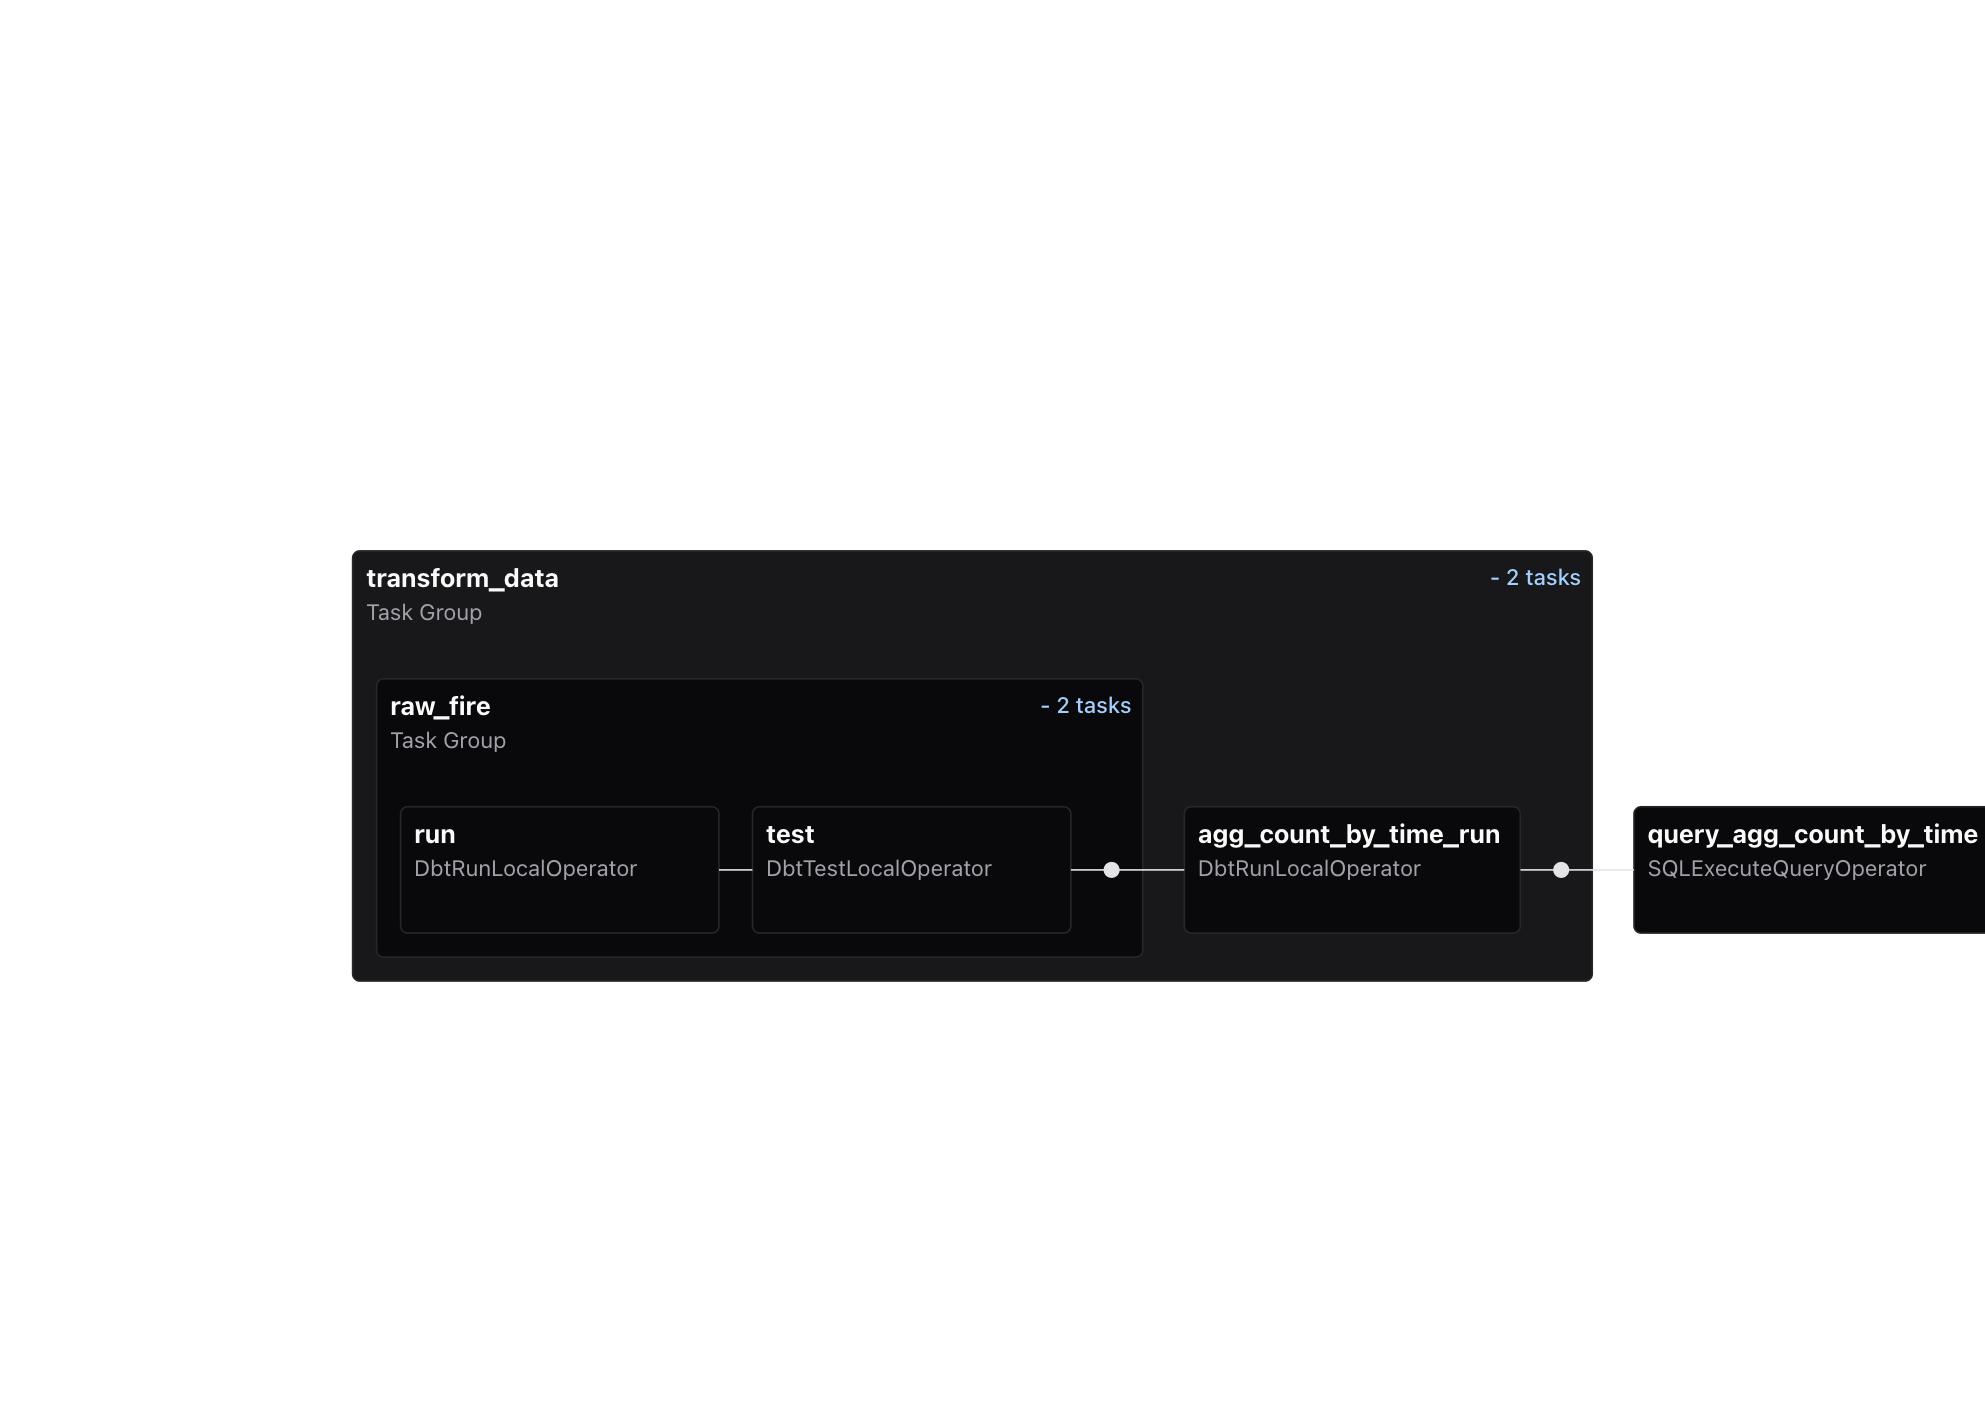
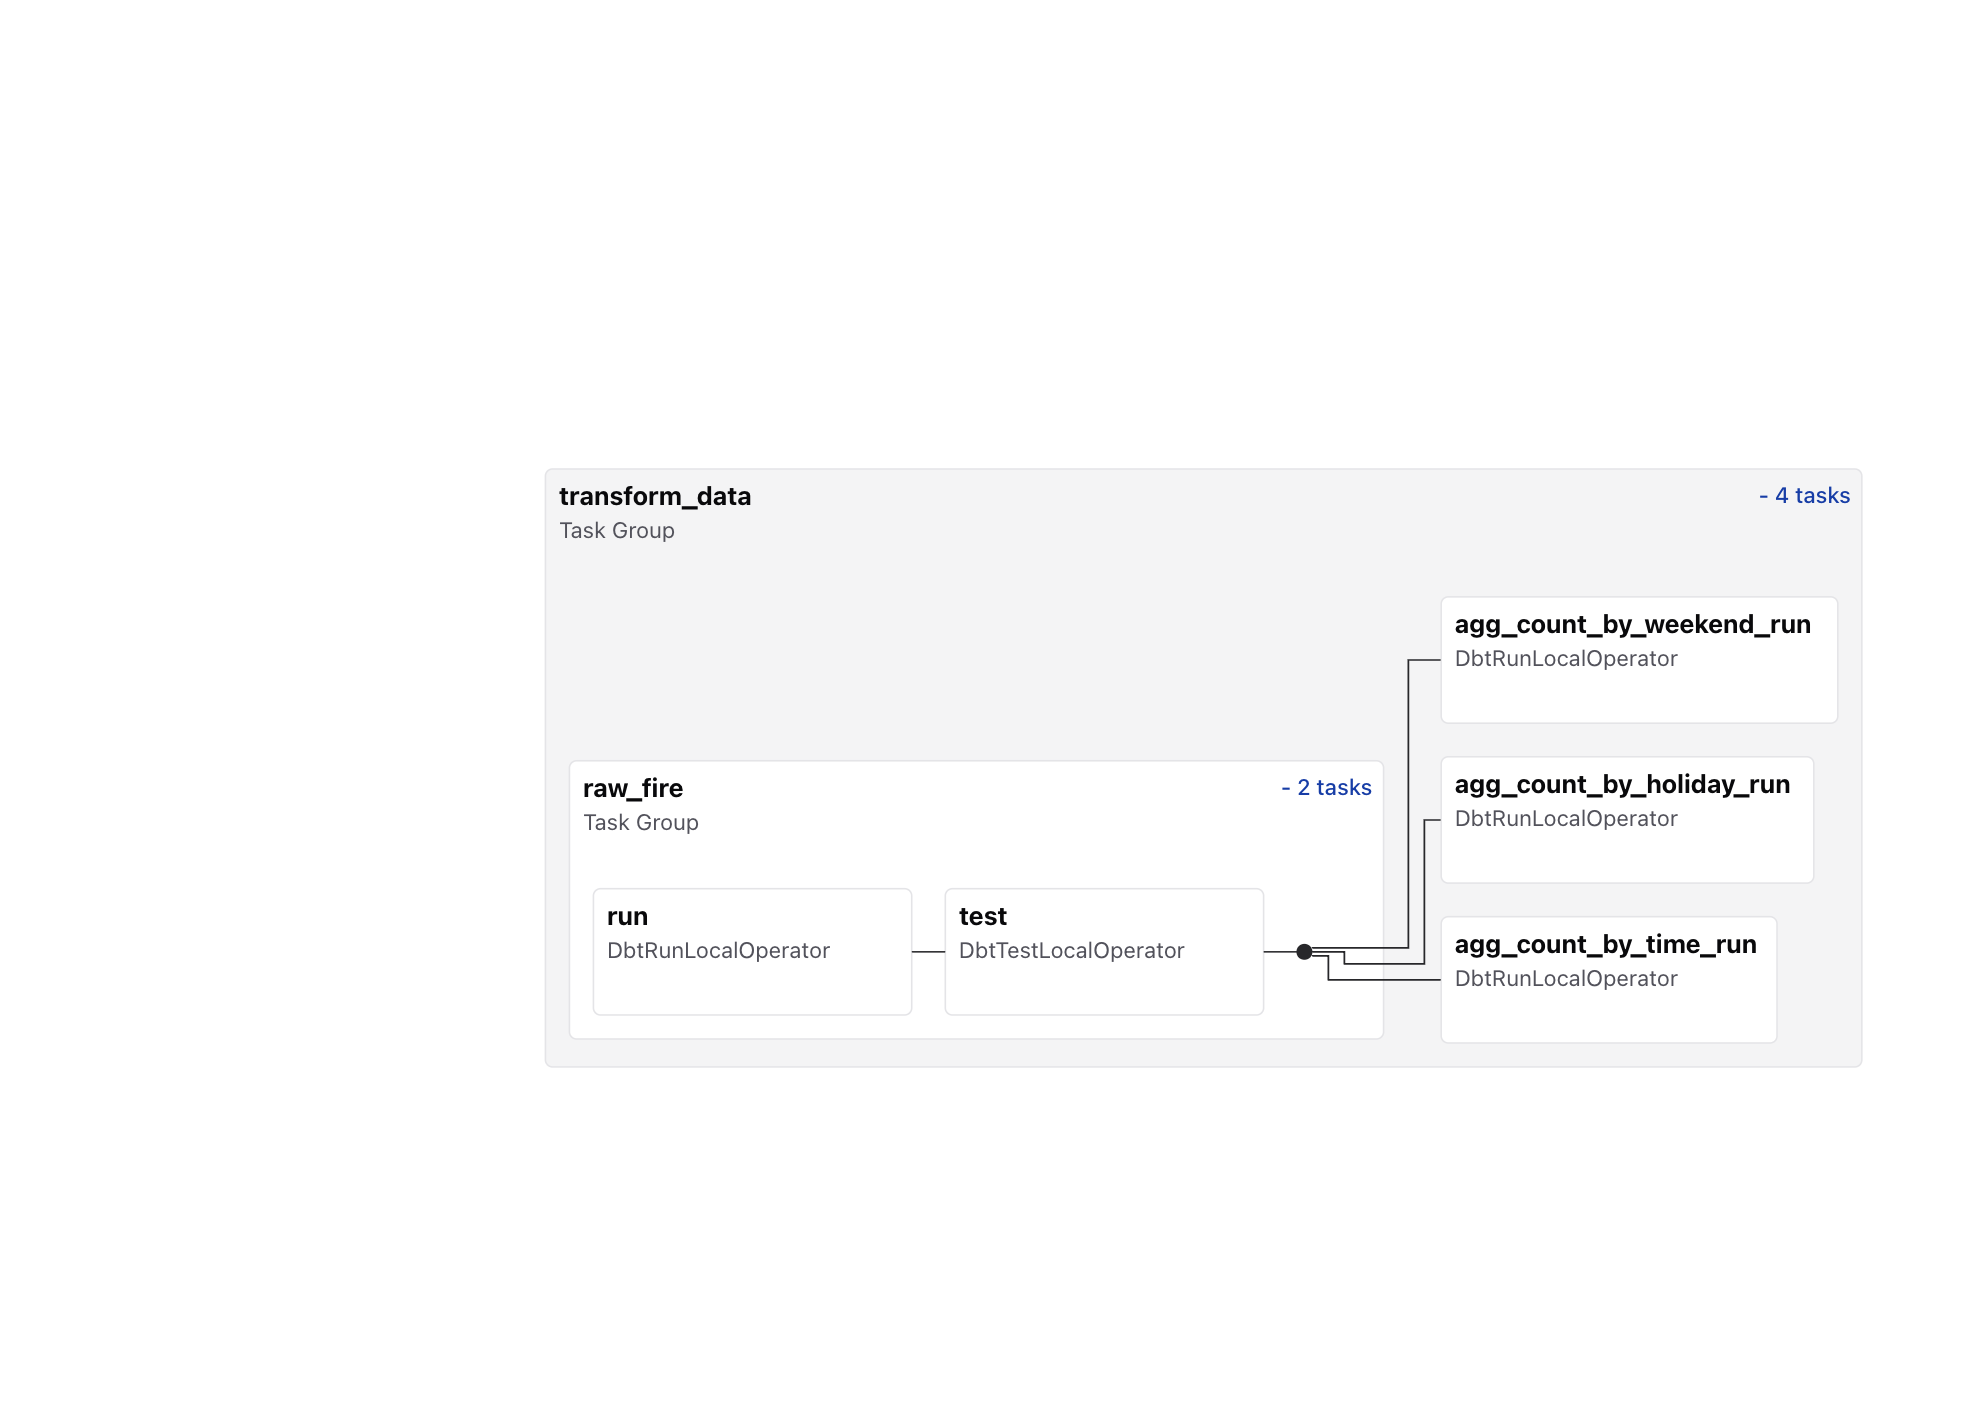
add calendar table and new dbt agg tables

Changed region(s): [[0.1562, 0.3428, 1.0, 0.7167], [0.9058, 0.3428, 0.937, 0.3739]]

diff --git a/dags/public/calendar_table.py b/dags/public/calendar_table.py
@@ -1,0 +1,90 @@
+import pandas as pd
+import holidays
+import logging
+from datetime import datetime
+from airflow.decorators import dag, task
+from airflow.providers.postgres.hooks.postgres import PostgresHook
+
+
+POSTGRES_CONN_ID = "postgres_default"
+SCHEMA_NAME = "public"
+TABLE_NAME = "calendar"
+
+
+@dag(
+    dag_id="public_calendar_table",
+    schedule=None,
+    start_date=datetime(2025, 6, 22),
+    catchup=False,
+    tags=["public"],
+)
+def create_calendar_table_dag():
+    @task()
+    def generate_calendar(start_date: str = None, end_date: str = None):
+        dates = pd.date_range(start=start_date, end=end_date)
+        df = pd.DataFrame({"date": dates})
+        holiday_dates = set(
+            pd.to_datetime(
+                list(
+                    holidays.country_holidays(
+                        "US", years=range(pd.to_datetime(start_date).year, pd.to_datetime(end_date).year + 1)
+                    )
+                ).copy()
+            )
+        )
+        df["day"] = df["date"].dt.day
+        df["month"] = df["date"].dt.month
+        df["month_name"] = df["date"].dt.strftime("%b")
+        df["month_full_name"] = df["date"].dt.strftime("%B")
+        df["year"] = df["date"].dt.year
+        df["quarter"] = df["date"].dt.quarter
+        df["semester"] = df["date"].dt.month.apply(lambda m: 1 if m <= 6 else 2)
+        df["weekday"] = df["date"].dt.weekday
+        df["weekday_name"] = df["date"].dt.strftime("%A")
+        df["is_holiday"] = df["date"].isin(holiday_dates)
+        df["is_weekend"] = df["date"].dt.weekday >= 5
+
+        # Convert pandas Timestamp to Python date for serialization
+        df["date"] = df["date"].dt.date
+
+        return df
+
+    @task()
+    def create_table():
+        hook = PostgresHook(postgres_conn_id="postgres_default")
+        create_sql = """
+        CREATE TABLE IF NOT EXISTS calendar (
+            date DATE PRIMARY KEY,
+            day INTEGER NOT NULL,
+            month INTEGER NOT NULL,
+            month_name VARCHAR(3) NOT NULL,
+            month_full_name VARCHAR(20) NOT NULL,
+            year INTEGER NOT NULL,
+            quarter INTEGER NOT NULL,
+            semester INTEGER NOT NULL,
+            weekday INTEGER NOT NULL,
+            weekday_name VARCHAR(10) NOT NULL,
+            is_holiday BOOLEAN NOT NULL,
+            is_weekend BOOLEAN NOT NULL
+        )
+        """
+        hook.run(create_sql)
+
+    @task()
+    def insert_calendar(df: pd.DataFrame):
+        logger = logging.getLogger("airflow.task")
+
+        pg_hook = PostgresHook(postgres_conn_id=POSTGRES_CONN_ID)
+        engine = pg_hook.get_sqlalchemy_engine()
+        logger.info(f"Writing DataFrame to Postgres table '{TABLE_NAME}' (replace mode).")
+
+        df.to_sql(TABLE_NAME, engine, if_exists="replace", index=False, schema=SCHEMA_NAME)
+        logger.info("Data successfully loaded into Postgres.")
+
+    create_table()
+    calendar_records = generate_calendar("2000-01-01", "2027-12-31")
+    insert_calendar(calendar_records)
+
+
+# Instantiate the DAG
+create_calendar_table_dag()

diff --git a/dags/datasf_fire_incidents/initial_loader.py b/dags/datasf_fire_incidents/initial_loader.py
@@ -231,12 +231,37 @@ def initial_loader():
         df.to_sql(TABLE_NAME, engine, if_exists="replace", index=False, schema="datasf")
         logger.info("Data successfully loaded into Postgres.")
 
+    @task()
+    def create_indexes():
+        logger = logging.getLogger("airflow.task")
+        logger.info("Creating indexes on datasf.fire_incidents table")
+
+        pg_hook = PostgresHook(postgres_conn_id=POSTGRES_CONN_ID)
+
+        # Define indexes to create - each tuple contains (name, columns, type)
+        indexes = [
+            ("idx_fire_incident_number", ["incident_number"], ""),
+            ("idx_fire_incident_date", ["incident_date"], ""),
+        ]
+
+        for idx_name, columns, idx_type in indexes:
+            columns_str = ", ".join([f'"{col}"' for col in columns])
+            create_idx_sql = f"""
+            CREATE INDEX IF NOT EXISTS {idx_name}
+            ON datasf.{TABLE_NAME} ({columns_str});
+            """
+            logger.info(f"Creating index {idx_name}...")
+            pg_hook.run(create_idx_sql)
+
+        logger.info("All indexes created successfully")
+
     create_schema_task = create_schema()
     create_table_task = create_table()
     csv_file = download_csv()
     load_task = load_to_postgres(csv_file)
+    indexes_task = create_indexes()
 
-    create_schema_task >> create_table_task >> csv_file >> load_task
+    create_schema_task >> create_table_task >> csv_file >> load_task >> indexes_task
 
 
 # Instantiate the DAG

diff --git a/dags/datasf_fire_incidents/run_dbt.py b/dags/datasf_fire_incidents/run_dbt.py
@@ -8,7 +8,6 @@ from cosmos.profiles import PostgresUserPasswordProfileMapping
 CONNECTION_ID = "postgres_default"
 DB_NAME = "postgres"
 SCHEMA_NAME = "datasf"
-MODEL_TO_QUERY = "agg_count_by_time"
 DBT_PROJECT_PATH = f"{os.environ['AIRFLOW_HOME']}/dags/dbt/fire"
 DBT_EXECUTABLE_PATH = f"{os.environ['AIRFLOW_HOME']}/dbt_venv/bin/dbt"
 
@@ -33,7 +32,7 @@ execution_config = ExecutionConfig(
     catchup=False,
     tags=["etl", "datasf", "sfgov", "fire_incidents", "dbt"],
 )
-def my_simple_dbt_dag():
+def dbt_run():
     transform_data = DbtTaskGroup(
         group_id="transform_data",
         project_config=ProjectConfig(DBT_PROJECT_PATH),
@@ -41,13 +40,7 @@ def my_simple_dbt_dag():
         execution_config=execution_config,
     )
 
-    query_agg_count_by_time = SQLExecuteQueryOperator(
-        task_id="query_agg_count_by_time",
-        conn_id=CONNECTION_ID,
-        sql=f"SELECT * FROM {DB_NAME}.{SCHEMA_NAME}.{MODEL_TO_QUERY} LIMIT 100",
-    )
-
-    chain(transform_data, query_agg_count_by_time)
+    transform_data
 
 
-my_simple_dbt_dag()
+dbt_run()

diff --git a/README.md b/README.md
@@ -44,6 +44,18 @@ The `initial_loader.py` DAG is responsible for the initial ingestion of fire inc
 
 This DAG should be triggered once to perform the initial load of historical fire incident data. Subsequent updates should use the incremental loader DAG.
 
+#### Index Performance Strategy
+
+The initial loader implements a performance-optimized indexing strategy:
+- Indexes are created **after** bulk data loading to improve initial load performance
+- Key indexes include:
+  - `incident_number`: Primary identifier for fire incidents, optimizes lookups and joins
+  - `incident_date`: Accelerates time-based filtering and analysis
+- This strategy balances query performance against load time by:
+  1. Loading all data efficiently in a single transaction without index overhead
+  2. Creating targeted indexes after load completion to optimize subsequent queries
+  3. Focusing on columns most frequently used in filtering and join operations
+
 #### Example
 
 To trigger the DAG manually from the Airflow UI, select `datasf_fire_incidents_initial_loader` and click "Trigger DAG".
@@ -53,6 +65,38 @@ To trigger the DAG manually from the Airflow UI, select `datasf_fire_incidents_i
 #### Description
 
 The `incremental_load.py` DAG handles the regular ingestion of new or updated fire incident records from the DataSF API. It is designed to run on a schedule, fetching only data that has changed since the last 2 days, and updating the data warehouse accordingly.
+
+#### Merge & Deduplication Strategy
+
+The incremental loader implements a robust merge and deduplication strategy to ensure data consistency and accuracy:
+
+1. **Time-based Incremental Loading**:
+   - Uses Airflow's logical_date (execution_date) to determine the appropriate look-back period
+   - Queries the Socrata API for records with `data_as_of` timestamp greater than or equal to 2 days before the execution date
+   - This overlap window ensures no data is missed due to processing delays or timezone differences
+
+2. **Upsert Mechanism**:
+   - Implements a database-level upsert (INSERT ... ON CONFLICT) operation using PostgreSQL's native capabilities
+   - Uses the unique `id` field as the conflict identifier to detect duplicates
+   - When a duplicate is detected, the existing record is completely replaced with the new data
+   - This approach handles both new records and updates to existing records in a single transaction
+
+3. **Late-arriving Data Handling**:
+   - The 2-day lookback window accommodates late-arriving data
+   - Records updated after initial ingestion are automatically captured in subsequent runs
+   - Historical corrections and amendments are properly integrated without manual intervention
+
+4. **Transaction Safety**:
+   - All database operations are wrapped in a transaction
+   - Automatic rollback occurs if any part of the process fails
+   - Ensures database consistency even during partial failures
+
+5. **Batch Processing**:
+   - Data is fetched and processed in batches of 1,000 records
+   - Improves memory efficiency and allows processing of large datasets
+   - Records are committed every 1,000 rows to balance transaction size with performance
+
+This strategy provides a reliable method for keeping the fire incidents dataset current while handling edge cases such as data corrections, delayed updates, and ensuring no duplicate records exist in the final dataset.
 
 #### Usage
 
